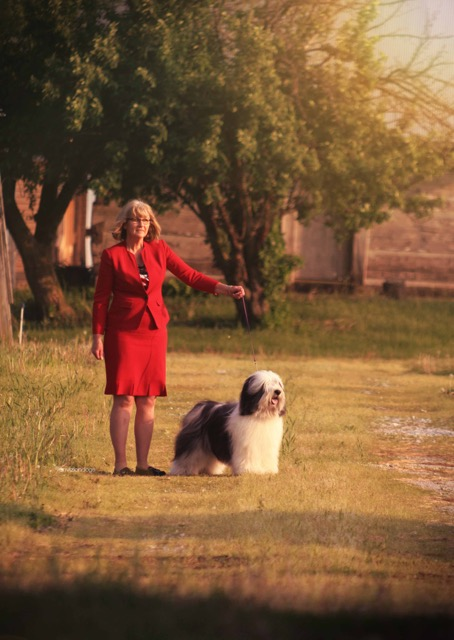
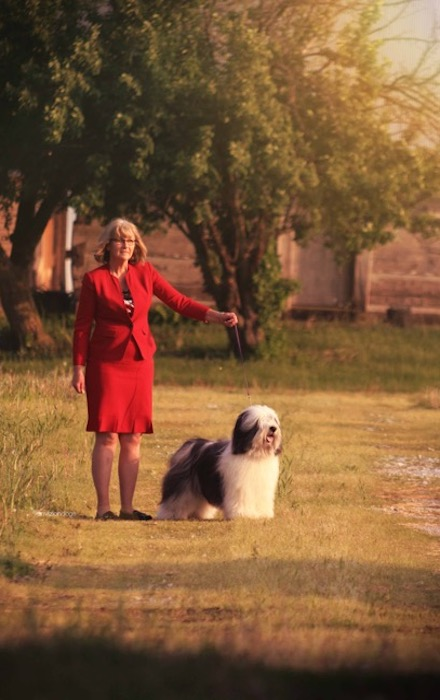
welcome msg, cards for sire and dam, fade animation for pics

diff --git a/src/components/Main.js b/src/components/Main.js
@@ -6,7 +6,7 @@ import Puppy3 from '../images/puppy3.JPG';
 import Puppy4 from '../images/puppy4.JPG';
 import Puppy5 from '../images/puppy5.JPG';
 import Simon from '../images/simon.JPG';
-import Layla from '../images/dam.JPG';
+import Layla from '../images/sitting-sweetly.PNG';
 
 class Main extends Component {
 
@@ -20,10 +20,10 @@ class Main extends Component {
               </div> */}
               <div className="col-md-12">
                 <div className="puppy-lineup">
-                  <img className="lineup" src={Puppy2} alt="pup" />
-                  <img className="lineup" src={Puppy3} alt="pup" />
-                  <img className="lineup" src={Puppy4} alt="pup" />
-                  <img className="lineup" src={Puppy5} alt="pup" />
+                  <img className="lineup fade" src={Puppy2} alt="pup" />
+                  <img className="lineup fade" src={Puppy3} alt="pup" />
+                  <img className="lineup fade" src={Puppy4} alt="pup" />
+                  <img className="lineup fade" src={Puppy5} alt="pup" />
                 </div>
               </div>
               {/* <div className="col-md-2">
@@ -32,7 +32,7 @@ class Main extends Component {
             <div className="row">
               <div className="col-md-3">
               </div>
-              <div className="col-md-6">
+              <div className="col-md-6 welcome-msg">
                 <h5>Welcome!</h5>
                 <p>After being involved with the PON breed for over eighteen years, I have decided to start a breeding program here in Northeast Ohio.</p>
               </div>
@@ -42,33 +42,46 @@ class Main extends Component {
             </div>
             <div className="row">
               <div className="announcement">
-                <div className="col-md-1">
+                <div className="col-md-3">
                 </div>
-                <div className="col-md-10">
-                  <h4>Announcing</h4>
-                  <p>We are pleased announce the birth of Simon and Layla's puppies born (date).</p>
-                  
-                  <div className="row">
-                  <div className="col-md-1">
+                <div className="col-md-6">
+                  <h4>Announcing...</h4>
+                  <p>We are pleased to announce the birth of Simon and Layla's puppies born (date)!  The puppies' parents have been tested for PRA, hip dysplaxia, CERF and are CHIC certified.</p>
                 </div>
-                    <div className="col-med-5">
-                      <h6>Sire</h6>
-                      <img className="announce-pic sire" src={Simon} alt="simon" />
-                    </div>
-                    <div className="col-med-5">
-                    <h6>Dam</h6>
-                    <img className="announce-pic dam" src={Layla} alt="layla" />
-                    </div>
-                    <div className="col-md-1">
-                </div>
-                  </div>
-                </div>
-                <div className="col-md-1">
-                </div>
+                <div className="col-md-3">
                 </div>
               </div>
+            </div>
+            <div className="row">
+              <div className="col-md-1">
+              </div>
+              <div className="col-med-4">
+                <div className="card">
+                  <img className="card-img-top announce-pic" src={Simon} alt="simon" />
+                  <div className="card-body">
+                    <h6 className="card-text">Sire</h6>
+                  </div>
+                </div>
+              </div>
+              <div className="col-med-2">
+                <div className="empty"/>
+              </div>
+              <div className="col-med-4">
+                <div className="card">
+                  <img className="card-img-top announce-pic" src={Layla} alt="layla" />
+                  <div className="card-body">
+                    <h6 className="card-text">Dam</h6>
+                  </div>
+                </div>
+              </div>
+              <div className="col-md-1">
+              </div>
+            </div>
+          </div>
+          <div className="col-md-1">
           </div>
         </div>
+
       </div>
     );
   }

diff --git a/src/components/Slider.js b/src/components/Slider.js
@@ -20,25 +20,25 @@ class Slider extends Component {
                                 <img className="d-block w-100" src={Puppy1} alt="puppy1" />
                             </div>
                             <div className="carousel-item">
-                                <img className="d-block w-100" src={SittingSweetly} alt="puppy5" />
+                                <img className="d-block w-100 fade" src={SittingSweetly} alt="puppy5" />
                             </div>
                             <div className="carousel-item">
-                                <img className="d-block w-100" src={Puppy2} alt="puppy2" />
+                                <img className="d-block w-100 fade" src={Puppy2} alt="puppy2" />
                             </div>
                             <div className="carousel-item">
-                                <img className="d-block w-100" src={Puppy3} alt="puppy3" />
+                                <img className="d-block w-100 fade" src={Puppy3} alt="puppy3" />
                             </div>
                             <div className="carousel-item">
-                                <img className="d-block w-100" src={Playing} alt="puppy5" />
+                                <img className="d-block w-100 fade" src={Playing} alt="puppy5" />
                             </div>
                             <div className="carousel-item">
-                                <img className="d-block w-100" src={Puppy4} alt="puppy4" />
+                                <img className="d-block w-100 fade" src={Puppy4} alt="puppy4" />
                             </div>
                             <div className="carousel-item">
-                                <img className="d-block w-100" src={Puppy5} alt="puppy5" />
+                                <img className="d-block w-100 fade" src={Puppy5} alt="puppy5" />
                             </div>
                             <div className="carousel-item">
-                                <img className="d-block w-100" src={Headshot} alt="headshot" />
+                                <img className="d-block w-100 fade" src={Headshot} alt="headshot" />
                             </div>
                         </div>
                         <a className="carousel-control-prev" href="#carouselExampleControls" role="button" data-slide="prev">

diff --git a/src/components/About.js b/src/components/About.js
@@ -14,24 +14,29 @@ class About extends Component {
             {/* <div className="col-md-1">
             </div> */}
             <div className="col-md-6">
-              <h5>About the Polish Lowland Sheepdog</h5>
-              <p> Also known as PON (Polski Owczarek Nizinny), this lively and clever dog is easy to train and posesses a good memory.  The breed is generally a healthy one, with a double coat commonly in white with black, grey or brown markings.</p>
-            </div>
-            <div className="col-md-3">
-              <img src={GreenToy} alt="green toy" height="40%" className="green-toy" />
-            </div>
-          </div>
-          <div className="row">
-            <div className="col-md-1">
-            </div>
-            <div className="links">
-              <h5>Further Reading</h5>
+              <div className="row">
+                <div className="col-md-12">
+                  <h5>About the Polish Lowland Sheepdog</h5>
+                  <p> Also known as PON (Polski Owczarek Nizinny), this lively and clever dog is easy to train and posesses a good memory.  The breed is generally a healthy one, with a double coat commonly in white with black, grey or brown markings.</p>
+                </div>
+              </div>
+              <div className="row">
+            <div className="col-md-10 links">
+              <h5>Helpful Links</h5>
               <ul>
+                <li><a href="http://www.ponpuppybuyersguide.com">PON Puppy Buyer's Guide</a></li>
                 <li><a href="http://www.aponc.org">American Polish Lowland Sheepdog Club</a></li>
                 <li><a href="http://www.vetstreet.com/dogs/polish-lowland-sheepdog">VetStreet</a></li>
                 <li><a href="https://www.akc.org/dog-breeds/polish-lowland-sheepdog/">American Kennel Club</a></li>
                 <li><a href="https://en.wikipedia.org/wiki/Polish_Lowland_Sheepdog">Wikipedia entry on PONs</a></li>
               </ul>
+            </div>
+            <div className="col-md-1">
+            </div>
+          </div>
+            </div>
+            <div className="col-md-3">
+              <img src={GreenToy} alt="green toy" height="40%" className="green-toy" />
             </div>
           </div>
         </div>

diff --git a/src/App.css b/src/App.css
@@ -24,36 +24,36 @@ nav {
   align-content: center;
 }
 
-.announce-pic {
-  border: 10px solid #fff;
+.announcement, .links, .welcome-msg {
+  margin-top: 4%;
+}
+
+.links, .welcome-msg {
+  background-color: #fff;
+}
+
+.card {
+  width: 18rem;
   border-radius: 20px;
-  margin: 2%;
+  clear: both;
 }
 
-.dam {
-  width: 250px;
+.announce-pic {
+  border: 7px solid #fff;
+  border-radius: 20px;
+  opacity: .9;
 }
-
-.sire {
-  height: 250px;
-}
-
-/* .container-main {
-  background-image: url(./images/sitting-sweetly.PNG);
-  background-attachment: fixed;
-  
-} */
 
 .lineup {
   width: 25%;
   border: 2px solid #fff;
   border-radius: 10px;
-
+  opacity: .9;
 }
 
 li {
   list-style: none;
-  margin-left: -8%;
+  margin-left: -10%;
 }
 
 a {
@@ -89,6 +89,12 @@ a:hover {
   align-items: center;
 }
 
+.welcome-msg {
+  padding: 1%;
+  border: 10px solid #fff;
+  border-radius: 20px;
+}
+
 .btn-secondary {
   align-self: center;
 }
@@ -97,7 +103,7 @@ a:hover {
   margin: 1% 1%;
   border: 10px solid #fff;
   border-radius: 20px;
-  opacity: .8;
+  opacity: .9;
 }
 
 .puppy-name {
@@ -114,6 +120,26 @@ a:hover {
   margin: 0 20%;
   background-size: 'cover';
   background-repeat: 'no-repeat';
+}
+
+/* Fading animation */
+.fade {
+  -webkit-animation-name: fade;
+  -webkit-animation-duration: 1.5s;
+  animation-name: fade;
+  animation-duration: 1.5s;
+  -webkit-animation-fill-mode: forwards;
+  animation-fill-mode: forwards;
+}
+
+@-webkit-keyframes fade {
+  from {opacity: .4} 
+  to {opacity: 1}
+}
+
+@keyframes fade {
+  from {opacity: .4} 
+  to {opacity: 1}
 }
 
 form, .puppy-each {
@@ -175,6 +201,11 @@ textarea:focus {
   }
   img {
     width: 50%;
+  }
+  .card {
+    width: 10rem;
+    border-radius: 20px;
+    margin: 2%;
   }
 
 }

diff --git a/src/components/Contact.js b/src/components/Contact.js
@@ -12,7 +12,7 @@ class Contact extends Component {
               </div>
               <div className="col-md-6">
                 <p className="hear">Send us a question or comment!</p>
-                <form action="https://formspree.io/liztrenholme@gmail.com" method="POST">
+                <form action="https://formspree.io/isabellemajerus54@gmail.com" method="POST">
                   <input className="text-input" required type="text" name="first_name" placeholder="First name" />
                   <input className="text-input" type="text" name="last_name" placeholder="Last name" />
                   <input className="text-input" required type="email" name="_replyto" placeholder="Your email address" />

diff --git a/src/components/Application.js b/src/components/Application.js
@@ -11,7 +11,7 @@ class Application extends Component {
             </div>
             <div className="col-md-6">
             <p>If you are interested in one of our puppies, please fill out and submit this application. We will be in touch shortly!</p>
-              <form action="https://formspree.io/liztrenholme@gmail.com" method="POST">
+              <form action="https://formspree.io/isabellemajerus54@gmail.com" method="POST">
                 <label htmlFor="full_name">Full Name</label>
                 <input className="text-input" type="text" required name="full_name" />
 
